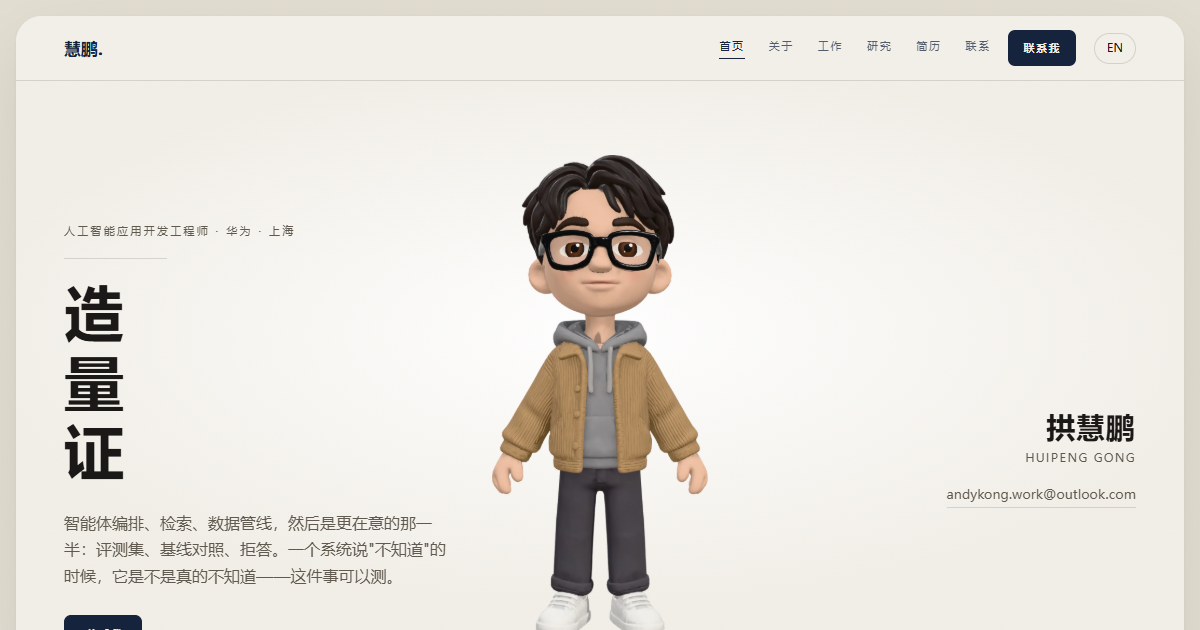
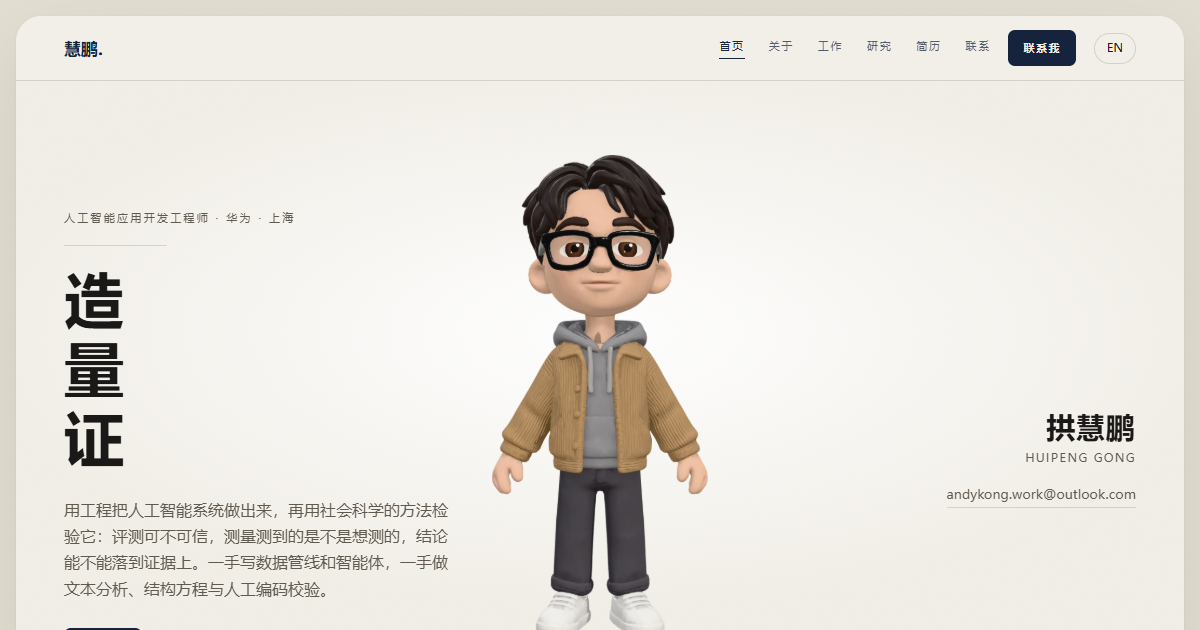
Content: research-forward hero, drop tracker, photo in About, full LinkedIn, EN name format

Changed region(s): [[0.0308, 0.4222, 0.37, 1.0], [0.0617, 0.3317, 0.2467, 0.3921]]

diff --git a/src/content.ts b/src/content.ts
@@ -61,7 +61,7 @@ export const content = {
       nameEn: 'Huipeng Gong',
       nameAlt: '',
       cta: '联系我',
-      lead: '智能体编排、检索、数据管线，然后是更在意的那一半：评测集、基线对照、拒答。一个系统说"不知道"的时候，它是不是真的不知道——这件事可以测。',
+      lead: '用工程把人工智能系统做出来，再用社会科学的方法检验它：评测可不可信，测量测到的是不是想测的，结论能不能落到证据上。一手写数据管线和智能体，一手做文本分析、结构方程与人工编码校验。',
       hint: '移动鼠标我会看你 · 悬停头部或手试试 · 按住可拖动',
     },
     about: {
@@ -71,7 +71,7 @@ export const content = {
         {
           k: '造',
           title: '把系统做出来',
-          text: '智能体编排（循环调度、工具调用）、检索、数据管线与本地部署。把模型接进真会跑的系统，而不是停在笔记本里。',
+          text: '数据采集与管线、检索、智能体与本地部署。把模型接进真会跑的系统，而不是停在笔记本里。',
         },
         {
           k: '量',
@@ -84,19 +84,12 @@ export const content = {
           text: '结构方程模型、中介机制检验、模型分类与人工编码的一致性。先问这个数字测的是什么，再谈它说明什么。',
         },
       ],
-      bio: '本科读国际贸易，硕士转社会学（计算方向），毕业后做工程。顺序看着像绕路，凑成的东西不多见：能写爬虫和管线，也知道怎么设计一个可信的测量。现在白天在华为做人工智能应用组件和人机交互评测，业余自己搭小工具。',
+      bio: '本科读国际贸易，硕士转社会学，毕业后做工程。顺序看着像绕路，凑成的东西不多见：能写爬虫和管线，也知道怎么设计一个可信的测量。现在白天在华为做人工智能应用组件和人机交互评测，业余自己搭小工具。',
     },
     work: {
       title: '做过的',
       intro: '能跑起来的，不是设想。',
       items: [
-        {
-          year: '2026',
-          name: '博士岗位追踪系统',
-          meta: '自用 · 每天 09:00 自动跑',
-          desc: '抓二十多所欧洲学校的在招岗位，一套硬性排除规则加 12 条回归测试；初筛过的再抓详情页复核——列表摘要只有几十个字，真正卡人的要求全写在详情页里。三周下来，1119 个岗位筛成 44 个。',
-          tags: ['自动化抓取', '规则引擎', '回归测试'],
-        },
         {
           year: '2025',
           name: 'Droppulses',
@@ -158,7 +151,7 @@ export const content = {
       factsTitle: '速览',
       facts: [
         { k: '现在', v: '华为 · 人工智能应用开发工程师（2025.10 至今）' },
-        { k: '教育', v: '杜伦大学 社会学硕士（计算方向），成绩优秀 · 南通大学 国际经济与贸易 学士，85/100' },
+        { k: '教育', v: '杜伦大学 社会学硕士，成绩优秀 · 南通大学 国际经济与贸易 学士，85/100' },
         { k: '方法', v: '结构方程模型 · 中介分析 · 计算文本分析 · 网络分析 · 调查设计 · 评测设计' },
         { k: '工具', v: 'Python、R、C++、SQL、Git 等' },
         { k: '语言', v: '中文（母语）· 英文（流利，杜伦英文授课硕士）' },
@@ -171,7 +164,7 @@ export const content = {
       linksTitle: '其他',
       links: [
         { label: 'ORCID', value: '0009-0002-6340-2325', href: ORCID_URL },
-        { label: '领英', value: 'huipeng-gong', href: LINKEDIN_URL },
+        { label: '领英', value: 'linkedin.com/in/huipeng-gong', href: LINKEDIN_URL },
       ],
       formTitle: '或者在这里留一句',
       form: {
@@ -187,6 +180,7 @@ export const content = {
     },
     a11y: {
       avatarAlt: '拱慧鹏的卡通形象',
+      photoAlt: '拱慧鹏的照片',
       switchLang: '切换到英文',
       skip: '跳到正文',
       mainNav: '主导航',
@@ -198,11 +192,11 @@ export const content = {
     sections: SECTIONS.en,
     hero: {
       eyebrow: 'AI APPLICATION DEVELOPMENT ENGINEER · HUAWEI · SHANGHAI',
-      name: 'Huipeng Gong',
+      name: 'Huipeng (Andy) Gong',
       nameEn: '',
-      nameAlt: 'Andy Kong',
+      nameAlt: '',
       cta: 'Get in touch',
-      lead: 'Agent orchestration, retrieval, data pipelines — then the half I care about more: evaluation sets, baselines, refusal. When a system says "I don\'t know", is it actually uncertain? That part is measurable.',
+      lead: 'I build AI systems, then test them with social-science methods: is the evaluation credible, does the measure capture what it claims to, does the conclusion rest on evidence? Pipelines and agents on one side; text analysis and structural equation models on the other.',
       hint: 'Move your cursor to make me look · hover my head or hands · drag to spin me',
     },
     about: {
@@ -212,7 +206,7 @@ export const content = {
         {
           k: '01',
           title: 'Build',
-          text: 'Agent orchestration (ReAct loops, tool use), retrieval-augmented generation with hybrid search and re-ranking, data pipelines and local deployment. Models wired into systems that run, not left in a notebook.',
+          text: 'Data collection and pipelines, retrieval, agents and local deployment. Models wired into systems that run, not left in a notebook.',
         },
         {
           k: '02',
@@ -225,19 +219,12 @@ export const content = {
           text: 'Structural equation modelling, mediation tests, agreement between model output and manual coding. First ask what a number measures, then what it means.',
         },
       ],
-      bio: 'BSc in international trade, MSc in sociology (computational), then engineering. The order looks accidental; the combination is not — I can build the pipeline and design the measurement that makes its output credible. By day I work on AI application components and human–AI interaction evaluation at Huawei; in my own time I build small tools.',
+      bio: 'BSc in international trade, MSc in sociology, then engineering. The order looks accidental; the combination is not — I can build the pipeline and design the measurement that makes its output credible. By day I work on AI application components and human–AI interaction evaluation at Huawei; in my own time I build small tools.',
     },
     work: {
       title: 'Selected work',
       intro: 'Things that run — not proposals.',
       items: [
-        {
-          year: '2026',
-          name: 'PhD position tracker',
-          meta: 'Personal tooling · runs at 09:00 daily',
-          desc: 'Scrapes open doctoral positions across 20+ European institutions, filtered by a rule engine of hard exclusion criteria with a 12-case regression suite; shortlisted posts are then re-checked on the detail page, because listing teasers run to a few dozen characters while the requirements that actually disqualify you sit further down. Over three weeks: 1,119 positions narrowed to 44.',
-          tags: ['Node.js', 'Rule engine', 'Regression tests'],
-        },
         {
           year: '2025',
           name: 'Droppulses',
@@ -302,7 +289,7 @@ export const content = {
         { k: 'Now', v: 'Huawei · AI Application Development Engineer (Oct 2025 – present)' },
         {
           k: 'Education',
-          v: 'MSc Sociology (computational), Durham — Merit · BSc International Economics and Trade, Nantong University — 85/100',
+          v: 'MSc Sociology, Durham — Merit · BSc International Economics and Trade, Nantong University — 85/100',
         },
         {
           k: 'Methods',
@@ -319,7 +306,7 @@ export const content = {
       linksTitle: 'Elsewhere',
       links: [
         { label: 'ORCID', value: '0009-0002-6340-2325', href: ORCID_URL },
-        { label: 'LinkedIn', value: 'in/huipeng-gong', href: LINKEDIN_URL },
+        { label: 'LinkedIn', value: 'linkedin.com/in/huipeng-gong', href: LINKEDIN_URL },
       ],
       formTitle: 'Or leave a line here',
       form: {
@@ -335,6 +322,7 @@ export const content = {
     },
     a11y: {
       avatarAlt: 'Cartoon avatar of Huipeng Gong',
+      photoAlt: 'Photo of Huipeng Gong',
       switchLang: '切换到中文',
       skip: 'Skip to content',
       mainNav: 'Main',

diff --git a/index.html b/index.html
@@ -6,7 +6,7 @@
     <title>拱慧鹏 Huipeng Gong · 人工智能系统与评测</title>
     <meta
       name="description"
-      content="拱慧鹏（Huipeng Gong）· 做人工智能系统，也做判断它好不好用的评测 · 智能体、检索、评测设计 · 上海"
+      content="拱慧鹏（Huipeng Gong）· 做人工智能系统，并用社会科学的方法检验它 · 评测、测量与计算社会科学 · 上海"
     />
     <link rel="canonical" href="https://gonghuipeng.com/" />
     <meta name="theme-color" content="#f2efe8" />
@@ -17,7 +17,7 @@
     <meta property="og:site_name" content="拱慧鹏 Huipeng Gong" />
     <meta property="og:url" content="https://gonghuipeng.com/" />
     <meta property="og:title" content="拱慧鹏 Huipeng Gong · 人工智能系统与评测" />
-    <meta property="og:description" content="做人工智能系统，也做判断它好不好用的评测 · 智能体、检索、评测设计" />
+    <meta property="og:description" content="做人工智能系统，并用社会科学的方法检验它 · 评测、测量与计算社会科学" />
     <meta property="og:image" content="https://gonghuipeng.com/og.png" />
     <meta property="og:image:width" content="1200" />
     <meta property="og:image:height" content="630" />
@@ -27,7 +27,7 @@
 
     <meta name="twitter:card" content="summary_large_image" />
     <meta name="twitter:title" content="拱慧鹏 Huipeng Gong · 人工智能系统与评测" />
-    <meta name="twitter:description" content="做人工智能系统，也做判断它好不好用的评测 · 智能体、检索、评测设计" />
+    <meta name="twitter:description" content="做人工智能系统，并用社会科学的方法检验它 · 评测、测量与计算社会科学" />
     <meta name="twitter:image" content="https://gonghuipeng.com/og.png" />
   </head>
   <body>

diff --git a/src/styles.css b/src/styles.css
@@ -378,8 +378,7 @@ a {
   font-weight: 400;
   font-size: clamp(1.15rem, 1.9vw, 1.65rem);
   line-height: 1;
-  text-transform: uppercase;
-  letter-spacing: 0.01em;
+  letter-spacing: 0.02em;
 }
 .hero-id-zh {
   font-size: 0.95rem;
@@ -606,14 +605,39 @@ a {
   color: var(--muted);
 }
 
+/* 照片 + 自述：照片固定 4:5，自述贴底对齐，像一张名片的两半 */
+.about-top {
+  display: grid;
+  grid-template-columns: minmax(0, clamp(15rem, 24vw, 22rem)) minmax(0, 1fr);
+  gap: clamp(1.6rem, 3.5vw, 3.5rem);
+  align-items: end;
+}
+.about-photo {
+  margin: 0;
+  aspect-ratio: 4 / 5;
+  border-radius: 18px;
+  overflow: hidden;
+  background: var(--page);
+  box-shadow: 0 1px 0 var(--line), 0 18px 40px -24px rgba(22, 35, 60, 0.45);
+}
+.about-photo img {
+  display: block;
+  width: 100%;
+  height: 100%;
+  object-fit: cover;
+}
 .about-bio {
   display: grid;
   gap: 0.9rem;
-  max-width: 64ch;
+  max-width: 52ch;
+  padding-bottom: 0.4rem;
+  border-left: 1px solid var(--line);
+  padding-left: clamp(1rem, 2vw, 1.8rem);
 }
 .about-bio p {
   margin: 0;
-  font-size: 1.02rem;
+  font-size: 1.12rem;
+  line-height: 1.75;
 }
 .about-note {
   color: var(--muted);
@@ -1028,6 +1052,20 @@ a {
   }
   .pillar {
     padding: 1.3rem 1.15rem;
+  }
+  .about-top {
+    grid-template-columns: 1fr;
+    gap: 1.4rem;
+  }
+  .about-photo {
+    width: min(100%, 20rem);
+  }
+  .about-bio {
+    border-left: 0;
+    padding-left: 0;
+  }
+  .about-bio p {
+    font-size: 1.02rem;
   }
   .row {
     grid-template-columns: 1fr;

diff --git a/src/App.tsx b/src/App.tsx
@@ -373,6 +373,22 @@ export default function App() {
             <p className="rail-note">{t.about.eyebrow}</p>
           </header>
           <div className="section-body">
+            {/* 照片 + 自述并排，三栏放下面通栏 */}
+            <div className="about-top reveal">
+              <figure className="about-photo">
+                <img
+                  src="/portrait.webp"
+                  alt={t.a11y.photoAlt}
+                  width={900}
+                  height={1125}
+                  loading="lazy"
+                  decoding="async"
+                />
+              </figure>
+              <div className="about-bio">
+                <p>{t.about.bio}</p>
+              </div>
+            </div>
             <div className="pillars">
               {t.about.pillars.map((p) => (
                 <article key={p.title} className="pillar reveal">
@@ -381,9 +397,6 @@ export default function App() {
                   <p>{p.text}</p>
                 </article>
               ))}
-            </div>
-            <div className="about-bio reveal">
-              <p>{t.about.bio}</p>
             </div>
           </div>
         </section>
